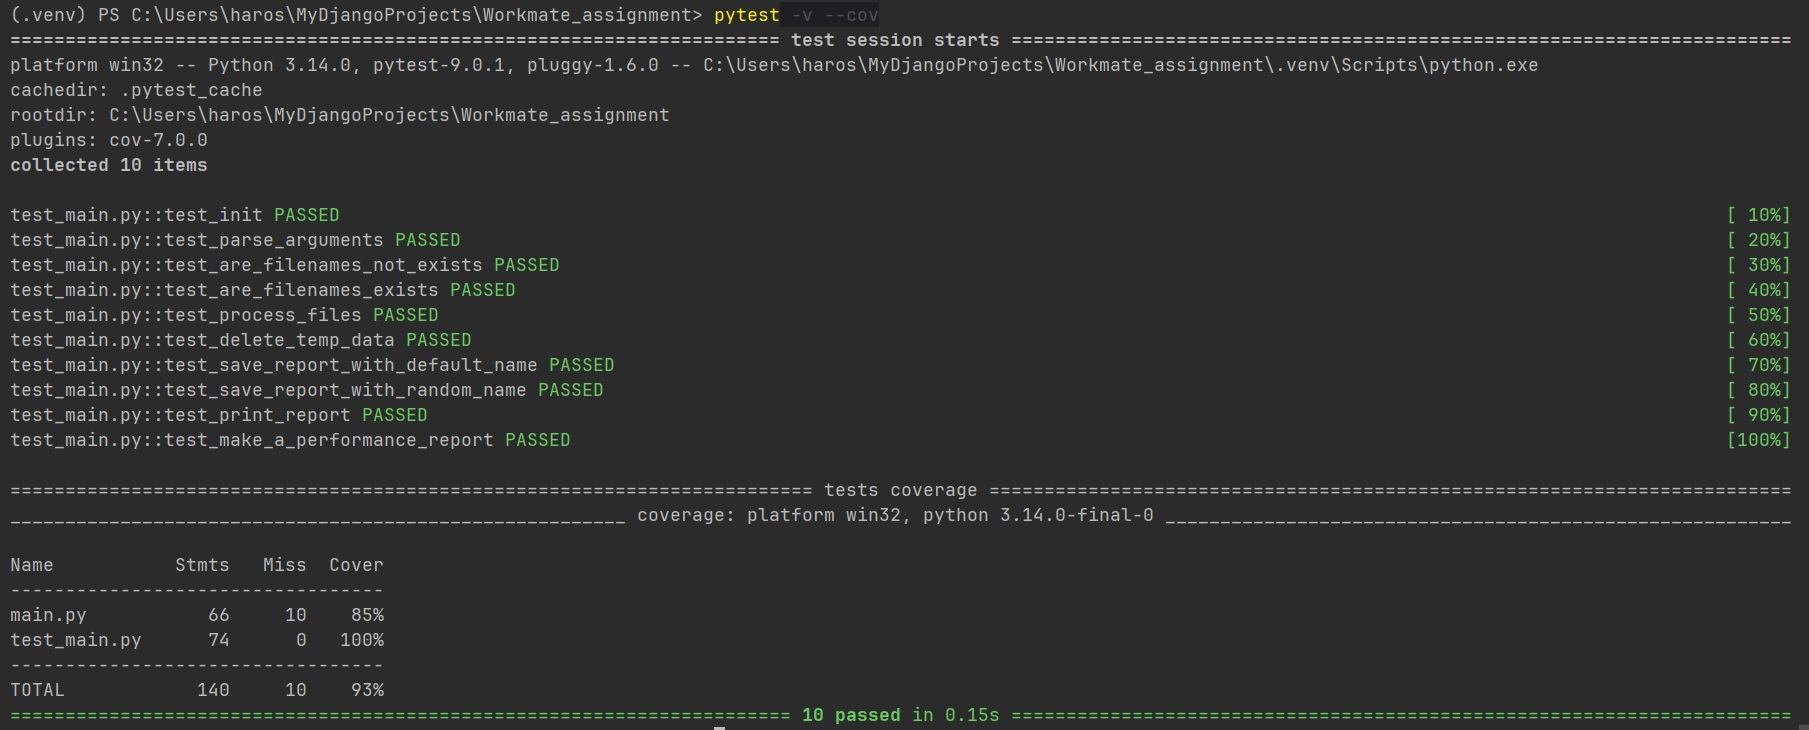
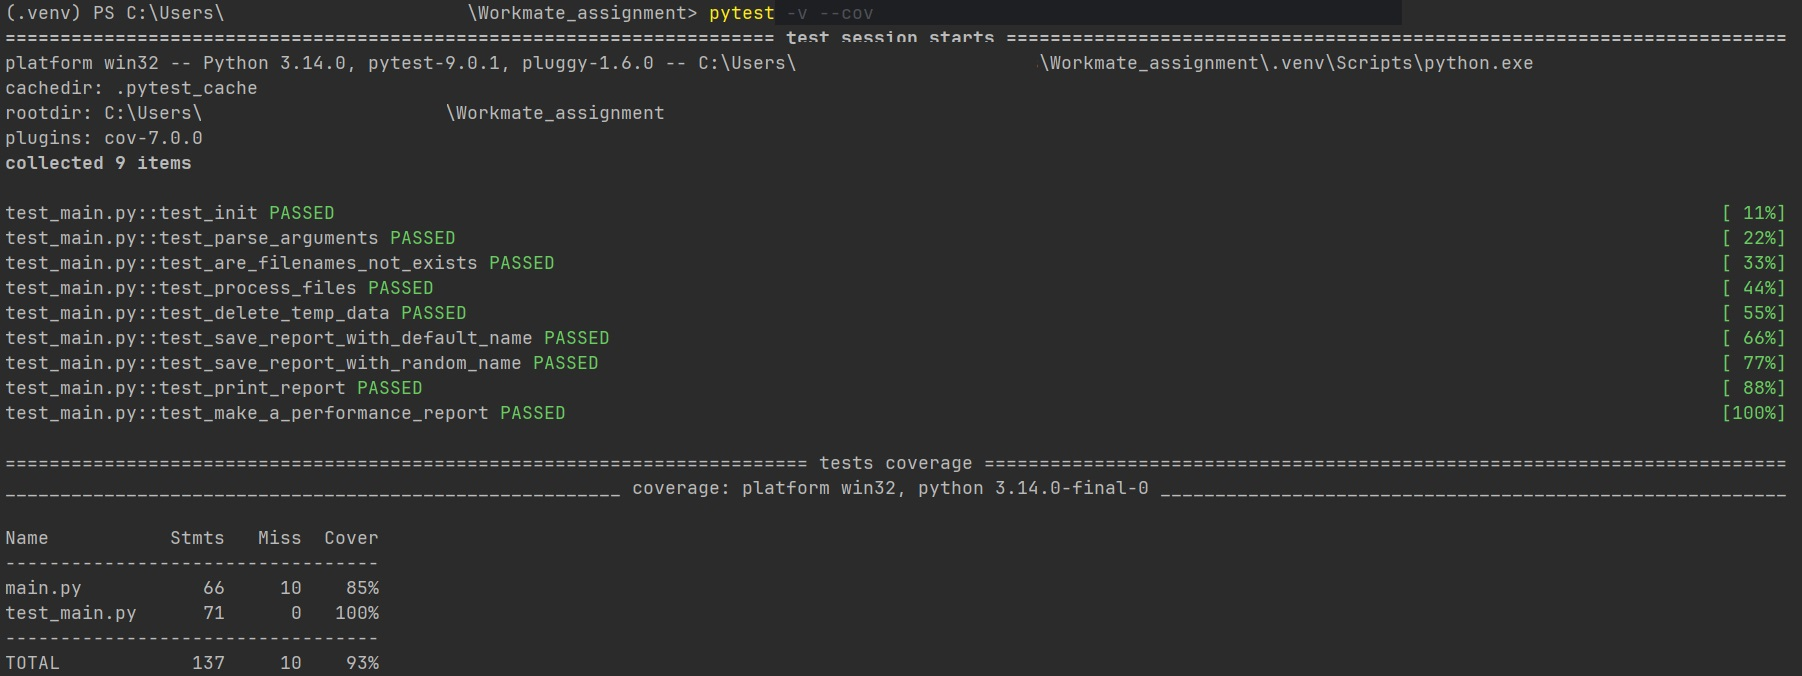
Add docstrings in test functions

diff --git a/test_main.py b/test_main.py
@@ -1,5 +1,5 @@
-import os                           # Необходимо для проверки создания файла.
-import sys                          # Импортируем для корректности парсинга.
+import os   # Необходимо для проверки создания файла.
+import sys  # Импортируем для корректности парсинга.
 import pytest
 from main import ReportGenerator
 
@@ -11,12 +11,21 @@ class MockParser:
         files (list[str]): список с именами файлов для обработки;
         report (str): имя файла для отчёта
     """
+
     def __init__(self, files=None, report='performance'):
         self.files = files
         self.report = report
 
 
 def make_report_generator(files=None, report='performance'):
+    """
+    Функция формирует и возвращает экземпляр класса ReportGenerator с замоканным аттрибутом args.
+    :parameter:
+        files (list[str]): список с именами файлов для обработки;
+        report (str): имя файла для отчёта
+    :return:
+        ReportGenerator()
+    """
     report_generator = ReportGenerator()
     parse_args = MockParser(files=files, report=report)
     report_generator.args = parse_args
@@ -24,12 +33,18 @@ def make_report_generator(files=None, report='performance'):
 
 
 def test_init():
+    """
+    Тестирование инициализации экземпляра класса ReportGenerator.
+    """
     report_generator = ReportGenerator()
     assert isinstance(report_generator, ReportGenerator)
 
 
 def test_parse_arguments(monkeypatch):
-    # Подменяем системные аргументы командной строки.
+    """
+    Тестирование парсинга аргументов из строки терминала.
+    :param monkeypatch: фикстура, позволяющая временно изменять аргументы в строке терминале.
+    """
     test_argv = [
         "script.py",
         "-f", "file1.csv", "file2.csv",
@@ -38,23 +53,23 @@ def test_parse_arguments(monkeypatch):
     monkeypatch.setattr(sys, "argv", test_argv)
     generator = ReportGenerator()
     generator.parse_arguments()
-    # Проверяем, что аргументы корректно распарсились.
     assert generator.args.files == ["file1.csv", "file2.csv"]
     assert generator.args.report == "my_report.csv"
 
 
 def test_are_filenames_not_exists():
+    """
+    Тестирование возбуждения ValueError в случае непередачи имён файлов для обработки.
+    """
     report_generator = make_report_generator()
     with pytest.raises(ValueError, match="Must specify the file name or file names."):
         report_generator.process_files()
 
 
-def test_are_filenames_exists():
-    report_generator = make_report_generator(['file_1', 'file_2'])
-    assert report_generator.args.files == ['file_1', 'file_2']
-
-
 def test_process_files():
+    """
+    Тестирование создания временного файла data_tmp.csv.
+    """
     report_generator = make_report_generator(
         ['test_employees1.csv', 'test_employees2.csv'],
         report='test_report.csv'
@@ -65,6 +80,9 @@ def test_process_files():
 
 
 def test_delete_temp_data():
+    """
+    Тестирование удаления временного файла data_tmp.csv.
+    """
     report_generator = make_report_generator(
         ['test_employees1.csv', 'test_employees2.csv']
     )
@@ -74,6 +92,9 @@ def test_delete_temp_data():
 
 
 def test_save_report_with_default_name():
+    """
+    Тестирование создания файла-отчёта по эффективности с именем по умолчанию.
+    """
     report_generator = make_report_generator(
         ['test_employees1.csv', 'test_employees2.csv']
     )
@@ -86,6 +107,9 @@ def test_save_report_with_default_name():
 
 
 def test_save_report_with_random_name():
+    """
+    Тестирование создания файла-отчёта по эффективности со случайным именем.
+    """
     from string import ascii_letters
     from random import choice, randint
     length = randint(4, 16)
@@ -103,6 +127,10 @@ def test_save_report_with_random_name():
 
 
 def test_print_report(capfd):
+    """
+    Тестирование вывода отчёта в терминал.
+    :param capfd: фикстура, захватывающая вывод в терминал.
+    """
     report_generator = make_report_generator(
         ['test_employees1.csv', 'test_employees2.csv']
     )
@@ -117,6 +145,9 @@ def test_print_report(capfd):
 
 
 def test_make_a_performance_report():
+    """
+    Тестирование формирования отчёта и сохранения его в аттрибут экзаемпляра ReportGenerator.
+    """
     report_generator = make_report_generator(
         ['test_employees1.csv', 'test_employees2.csv']
     )
